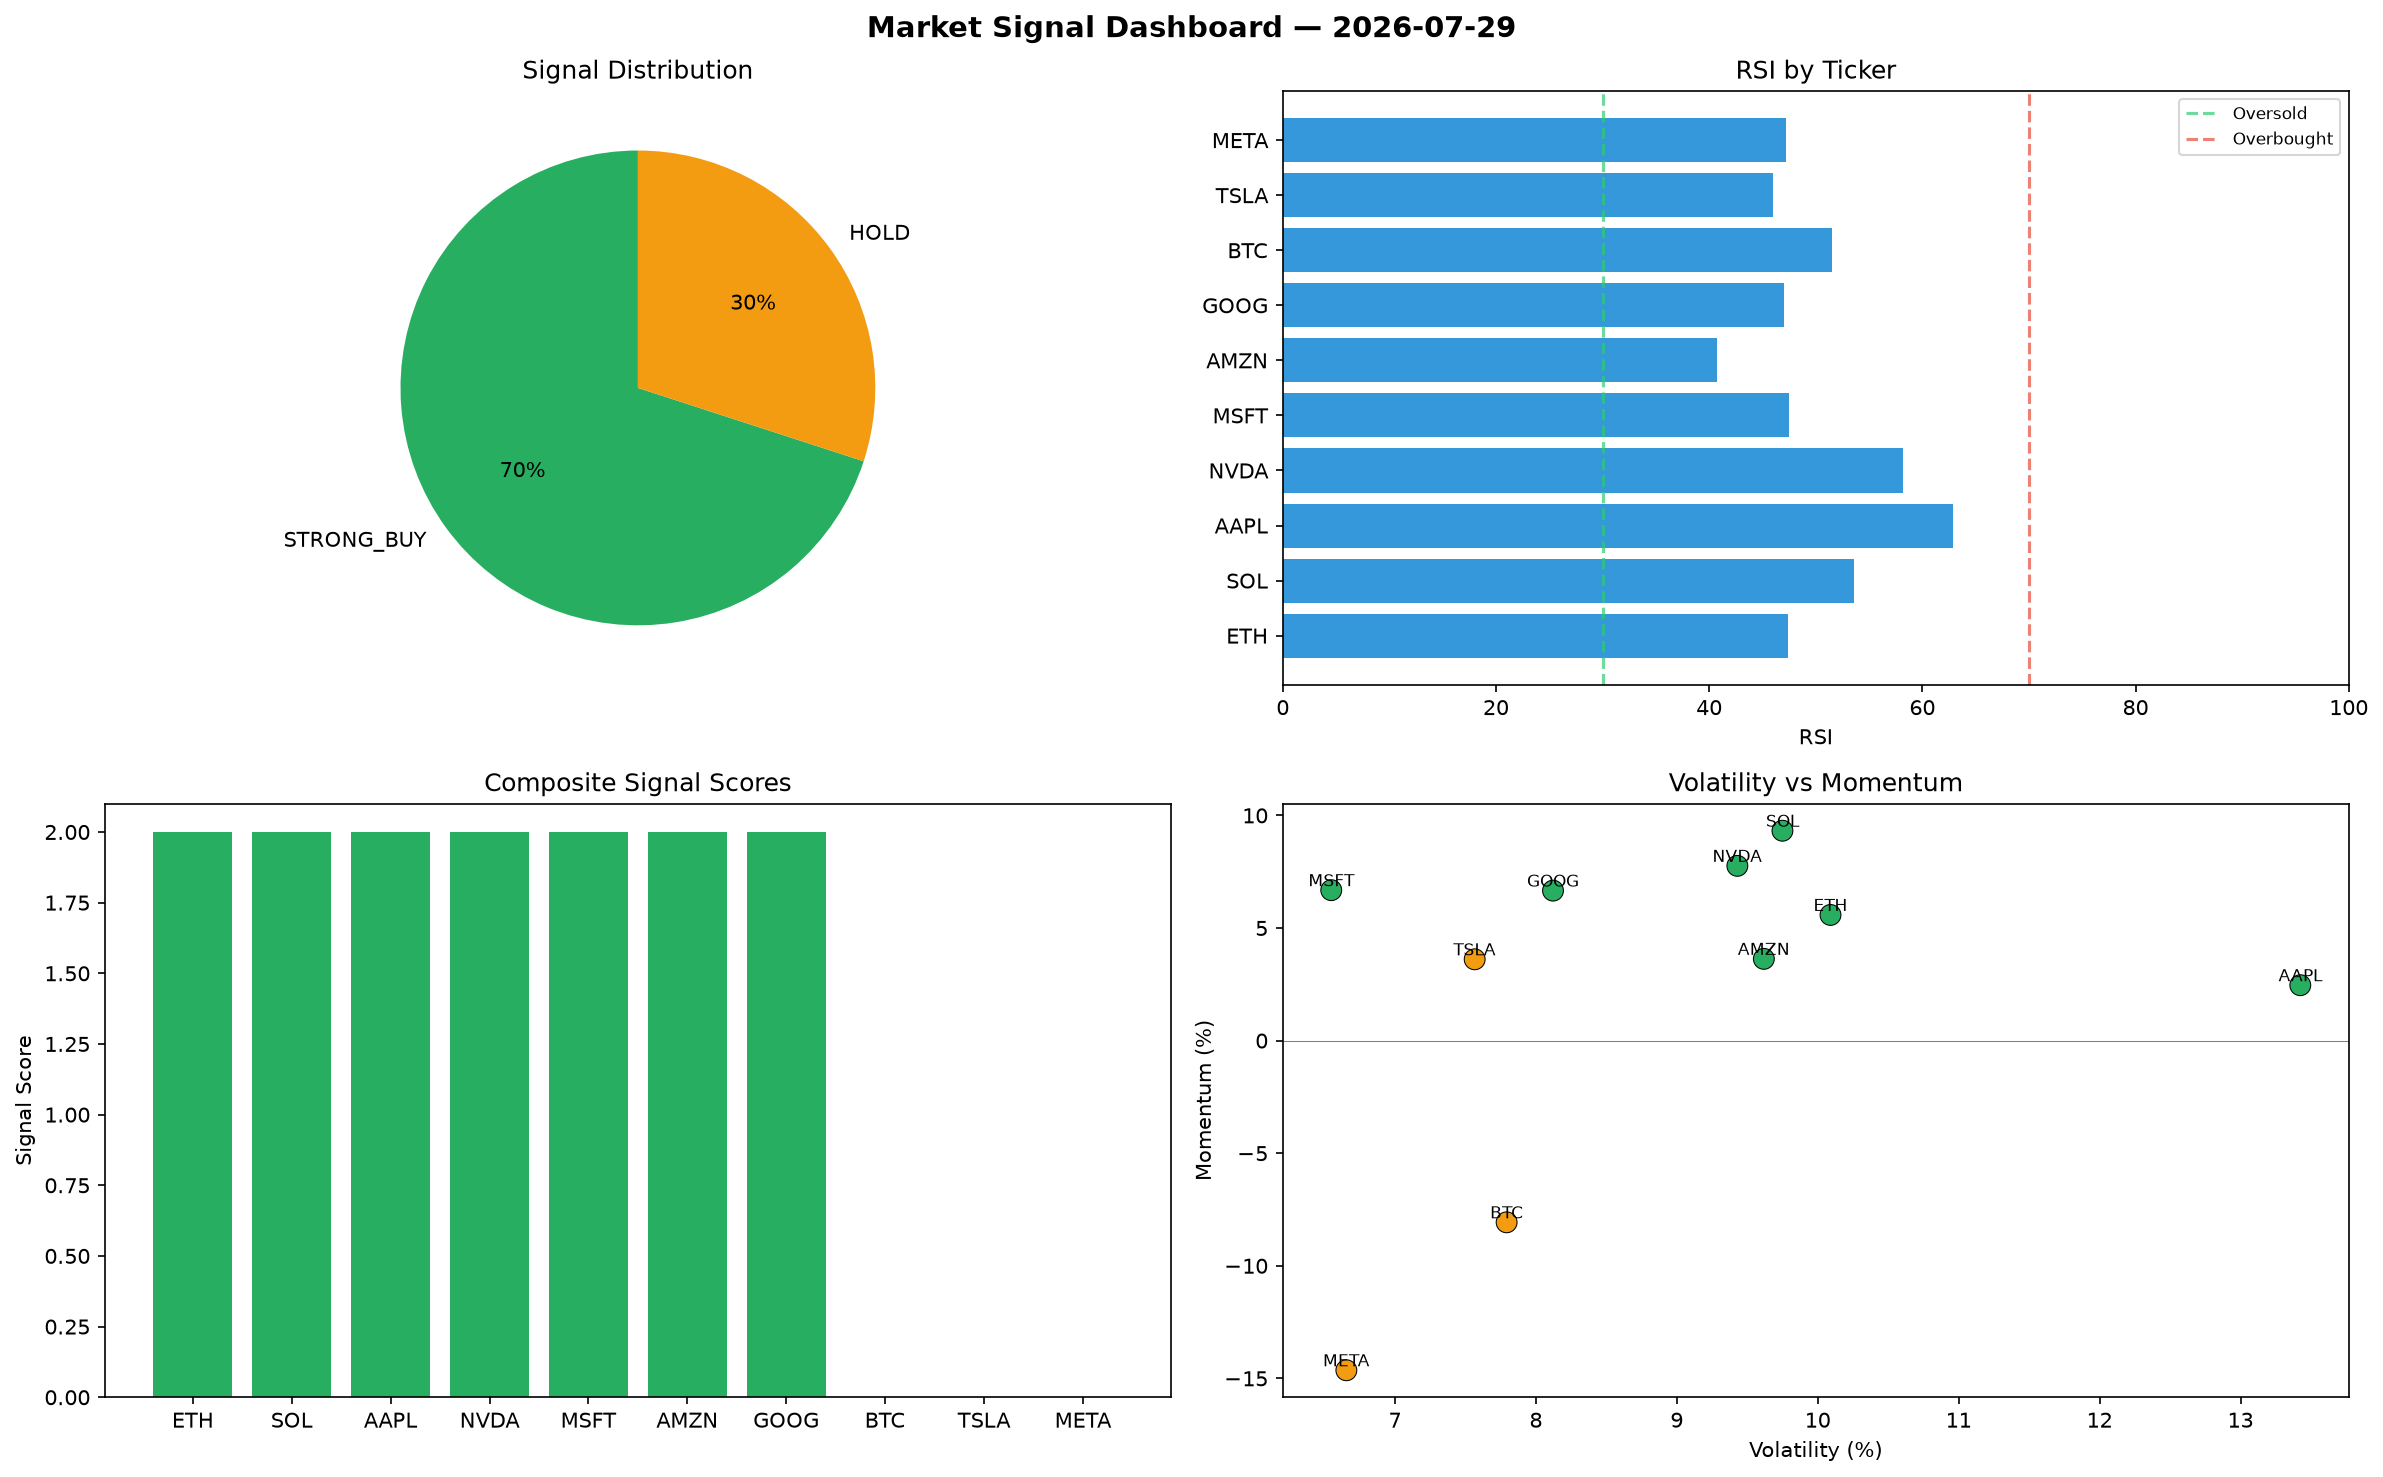
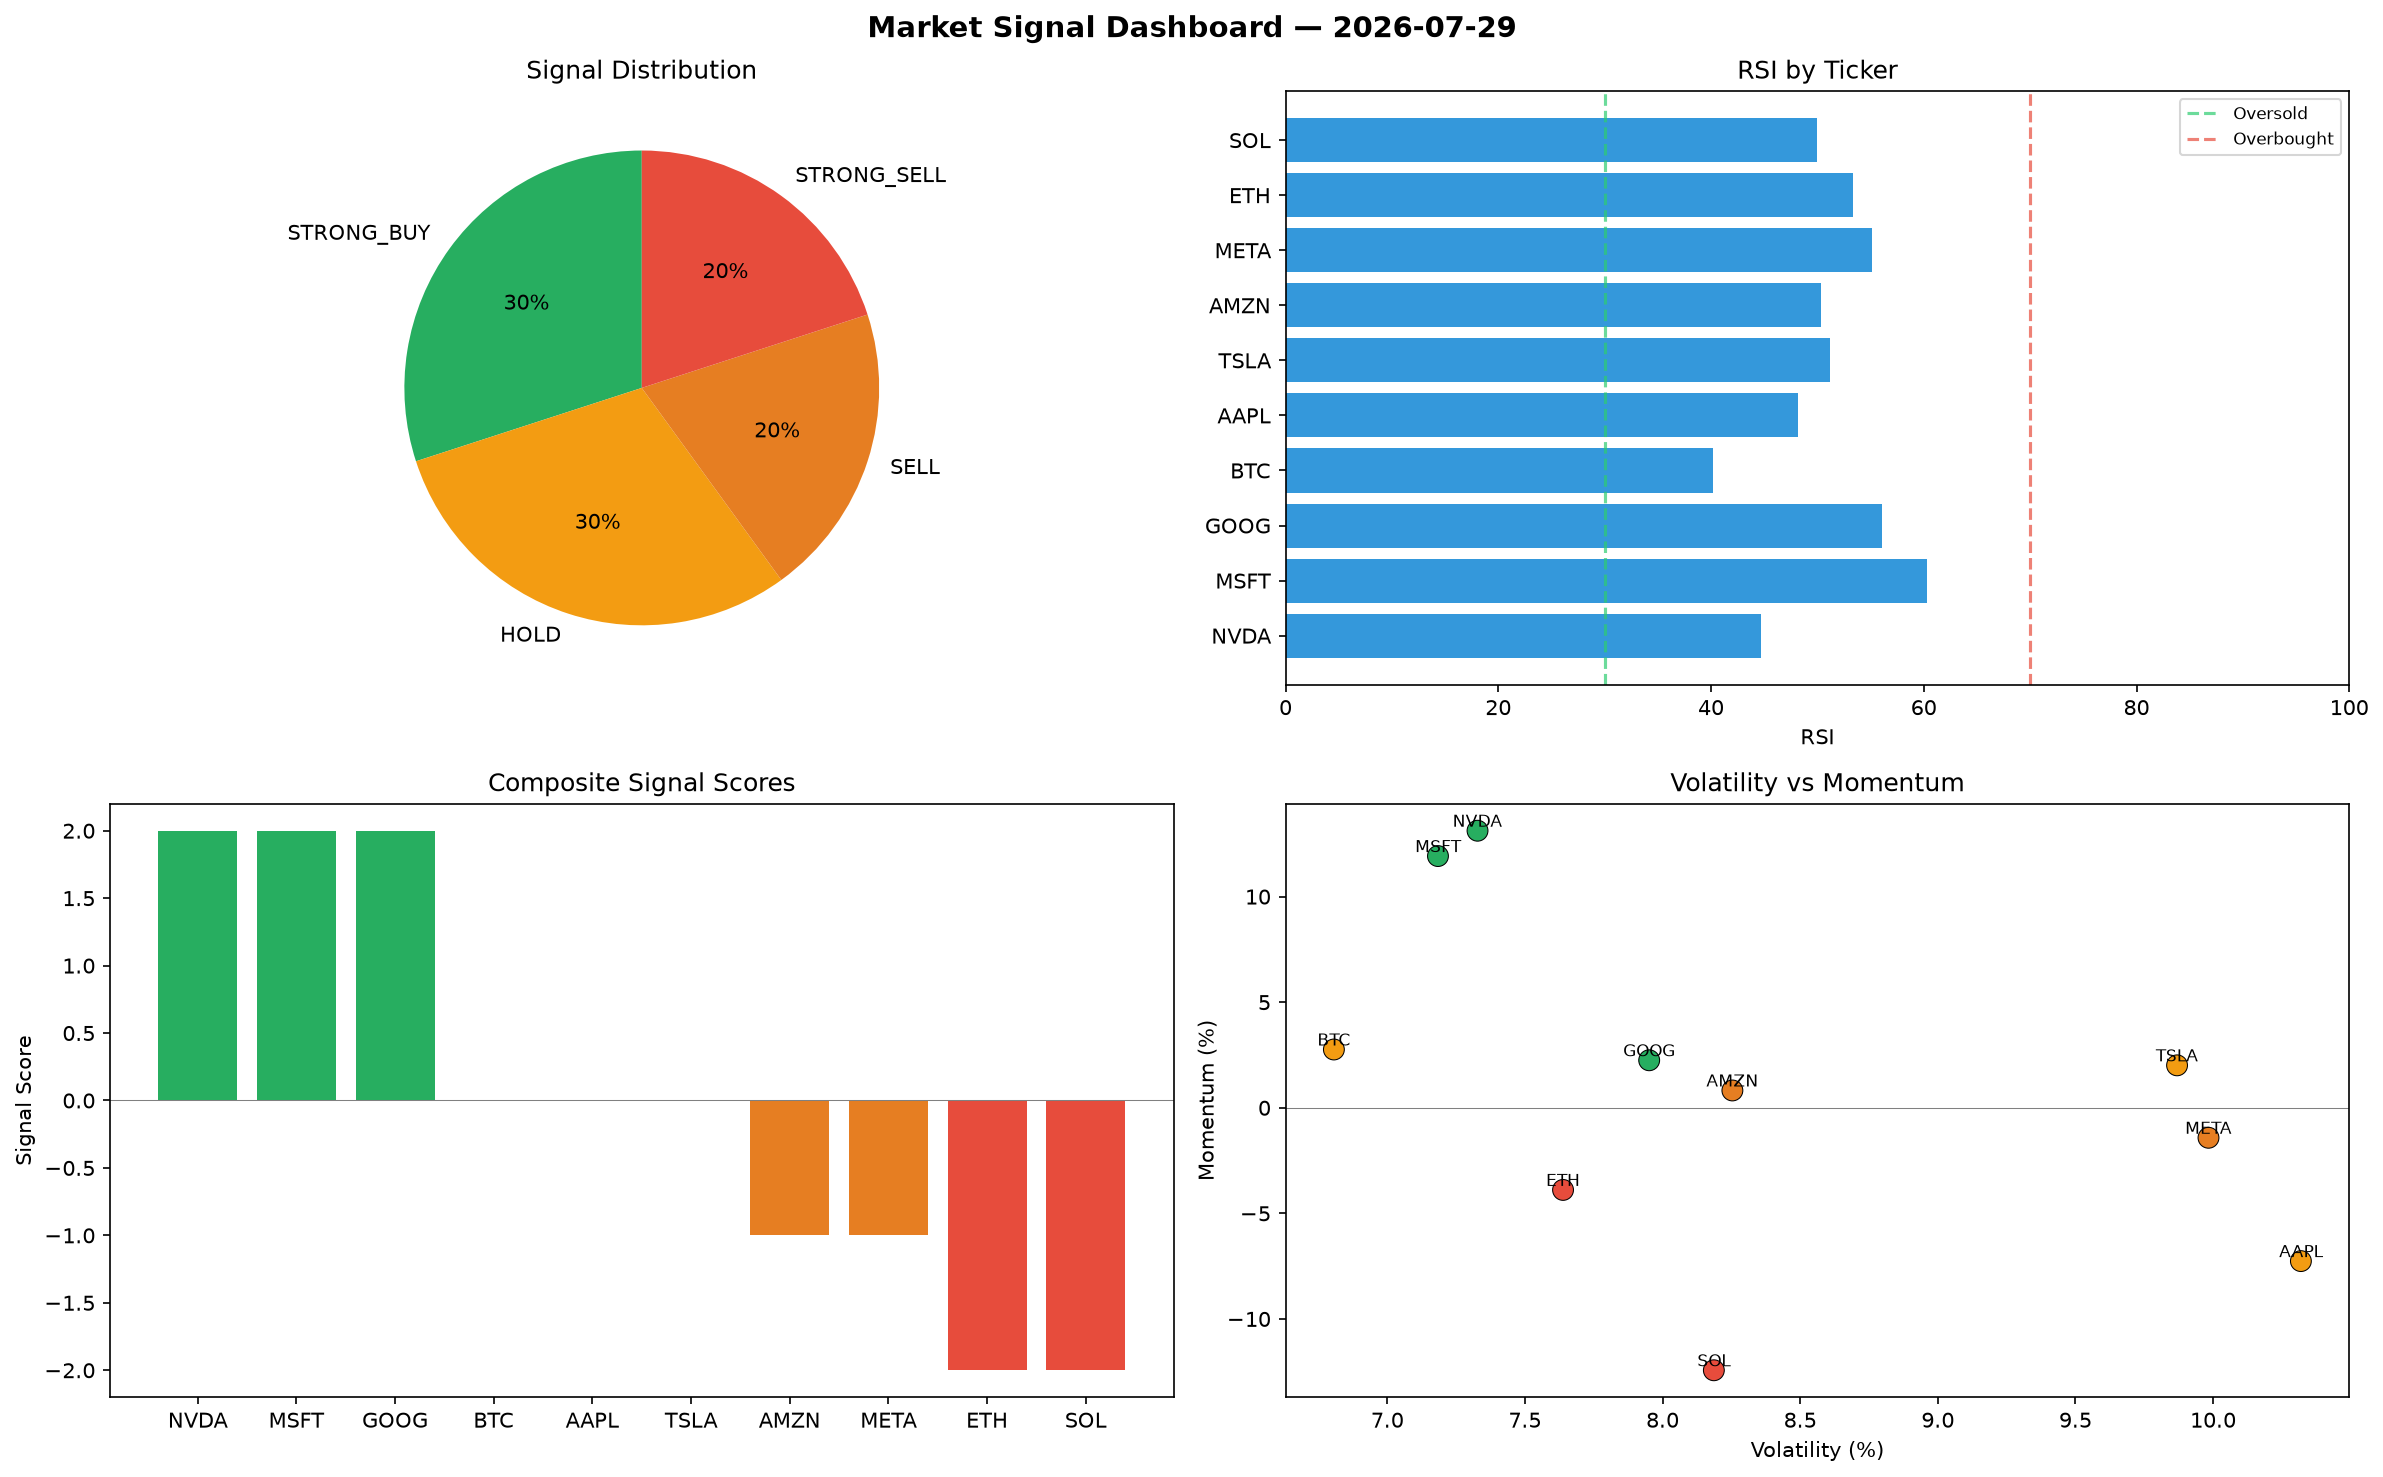
automated-bots: market signals 2026-07-29T11:01

diff --git a/logs/2026-07-29.md b/logs/2026-07-29.md
@@ -1,6 +1,6 @@
 # Market Signal Report — 2026-07-29
 
-**Run ID:** `a3dea8a3bc` | **Buy:** 7 | **Sell:** 0 | **Hold:** 3
+**Run ID:** `fd548f9342` | **Buy:** 3 | **Sell:** 4 | **Hold:** 3
 
 ![Dashboard](2026-07-29_dashboard.png)
 
@@ -8,28 +8,28 @@
 
 | Ticker | Price | Signal | Score | RSI | Momentum | Confidence |
 |--------|-------|--------|-------|-----|----------|------------|
-| ETH | $477.46 | **STRONG_BUY** | 2 | 47.42 | 0.0558 | 0.5 |
-| SOL | $3686.51 | **STRONG_BUY** | 2 | 53.55 | 0.0932 | 0.5 |
-| AAPL | $4354.92 | **STRONG_BUY** | 2 | 62.89 | 0.0246 | 0.5 |
-| NVDA | $2849.23 | **STRONG_BUY** | 2 | 58.19 | 0.0776 | 0.5 |
-| MSFT | $4318.26 | **STRONG_BUY** | 2 | 47.52 | 0.0668 | 0.5 |
-| AMZN | $1517.49 | **STRONG_BUY** | 2 | 40.73 | 0.0363 | 0.5 |
-| GOOG | $834.87 | **STRONG_BUY** | 2 | 47.05 | 0.0666 | 0.5 |
-| BTC | $2128.96 | **HOLD** | 0 | 51.53 | -0.0807 | 0.0 |
-| TSLA | $685.44 | **HOLD** | 0 | 45.98 | 0.0361 | 0.0 |
-| META | $3116.67 | **HOLD** | 0 | 47.21 | -0.1464 | 0.0 |
+| NVDA | $3828.86 | **STRONG_BUY** | 2 | 44.7 | 0.1312 | 0.5 |
+| MSFT | $1179.49 | **STRONG_BUY** | 2 | 60.32 | 0.1192 | 0.5 |
+| GOOG | $2691.12 | **STRONG_BUY** | 2 | 56.1 | 0.0225 | 0.5 |
+| BTC | $637.76 | **HOLD** | 0 | 40.14 | 0.0276 | 0.0 |
+| AAPL | $4201.92 | **HOLD** | 0 | 48.16 | -0.0726 | 0.0 |
+| TSLA | $3799.87 | **HOLD** | 0 | 51.2 | 0.0201 | 0.0 |
+| AMZN | $2349.65 | **SELL** | -1 | 50.33 | 0.0082 | 0.25 |
+| META | $2244.59 | **SELL** | -1 | 55.13 | -0.0142 | 0.25 |
+| ETH | $4064.61 | **STRONG_SELL** | -2 | 53.3 | -0.0389 | 0.5 |
+| SOL | $4614.67 | **STRONG_SELL** | -2 | 49.97 | -0.1243 | 0.5 |
 
 ## Delta vs Yesterday
 
 | Ticker | Today | Yesterday | Price Change | Signal Changed |
 |--------|-------|-----------|-------------|----------------|
-| ETH | STRONG_BUY | HOLD | 📉 -72.24% | ⚠ YES |
-| SOL | STRONG_BUY | BUY | 📈 15.29% | ⚠ YES |
-| AAPL | STRONG_BUY | HOLD | 📈 77.81% | ⚠ YES |
-| NVDA | STRONG_BUY | HOLD | 📈 71.93% | ⚠ YES |
-| MSFT | STRONG_BUY | SELL | 📈 48.7% | ⚠ YES |
-| AMZN | STRONG_BUY | HOLD | 📈 455.57% | ⚠ YES |
-| GOOG | STRONG_BUY | STRONG_BUY | 📉 -84.12% | — |
-| BTC | HOLD | STRONG_SELL | 📉 -11.64% | ⚠ YES |
-| TSLA | HOLD | HOLD | 📉 -62.68% | — |
-| META | HOLD | STRONG_BUY | 📈 36.67% | ⚠ YES |
+| NVDA | STRONG_BUY | HOLD | 📈 131.05% | ⚠ YES |
+| MSFT | STRONG_BUY | SELL | 📉 -59.38% | ⚠ YES |
+| GOOG | STRONG_BUY | STRONG_BUY | 📉 -48.82% | — |
+| BTC | HOLD | STRONG_SELL | 📉 -73.53% | ⚠ YES |
+| AAPL | HOLD | HOLD | 📈 71.56% | — |
+| TSLA | HOLD | HOLD | 📈 106.91% | — |
+| AMZN | SELL | HOLD | 📈 760.24% | ⚠ YES |
+| META | SELL | STRONG_BUY | 📉 -1.58% | ⚠ YES |
+| ETH | STRONG_SELL | HOLD | 📈 136.3% | ⚠ YES |
+| SOL | STRONG_SELL | BUY | 📈 44.32% | ⚠ YES |
